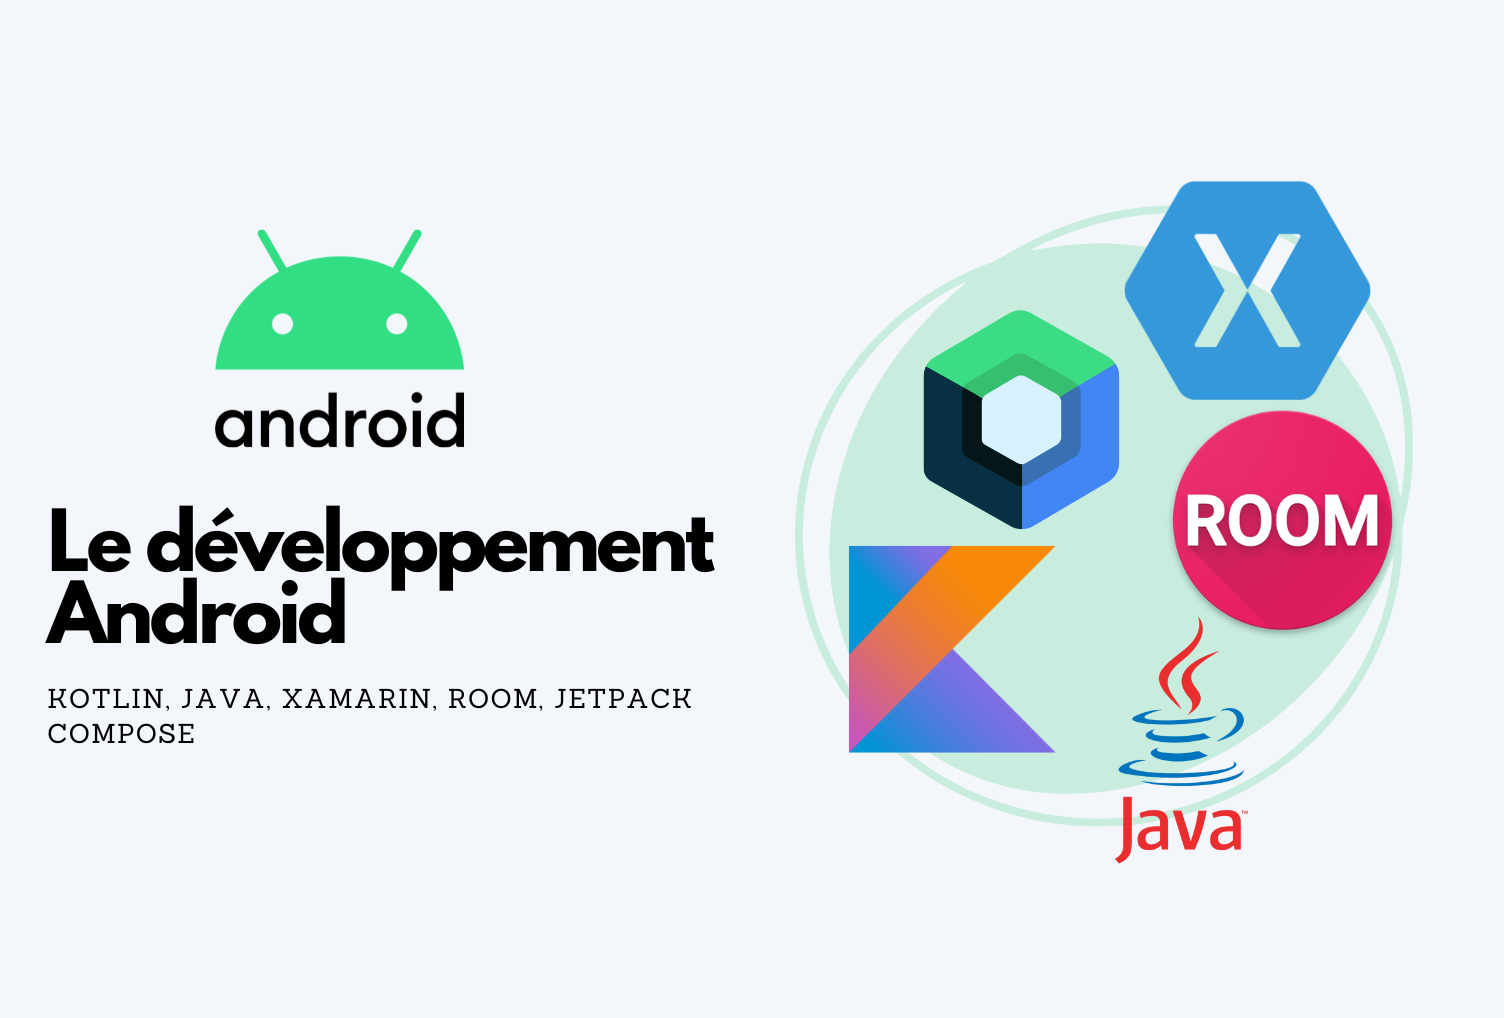
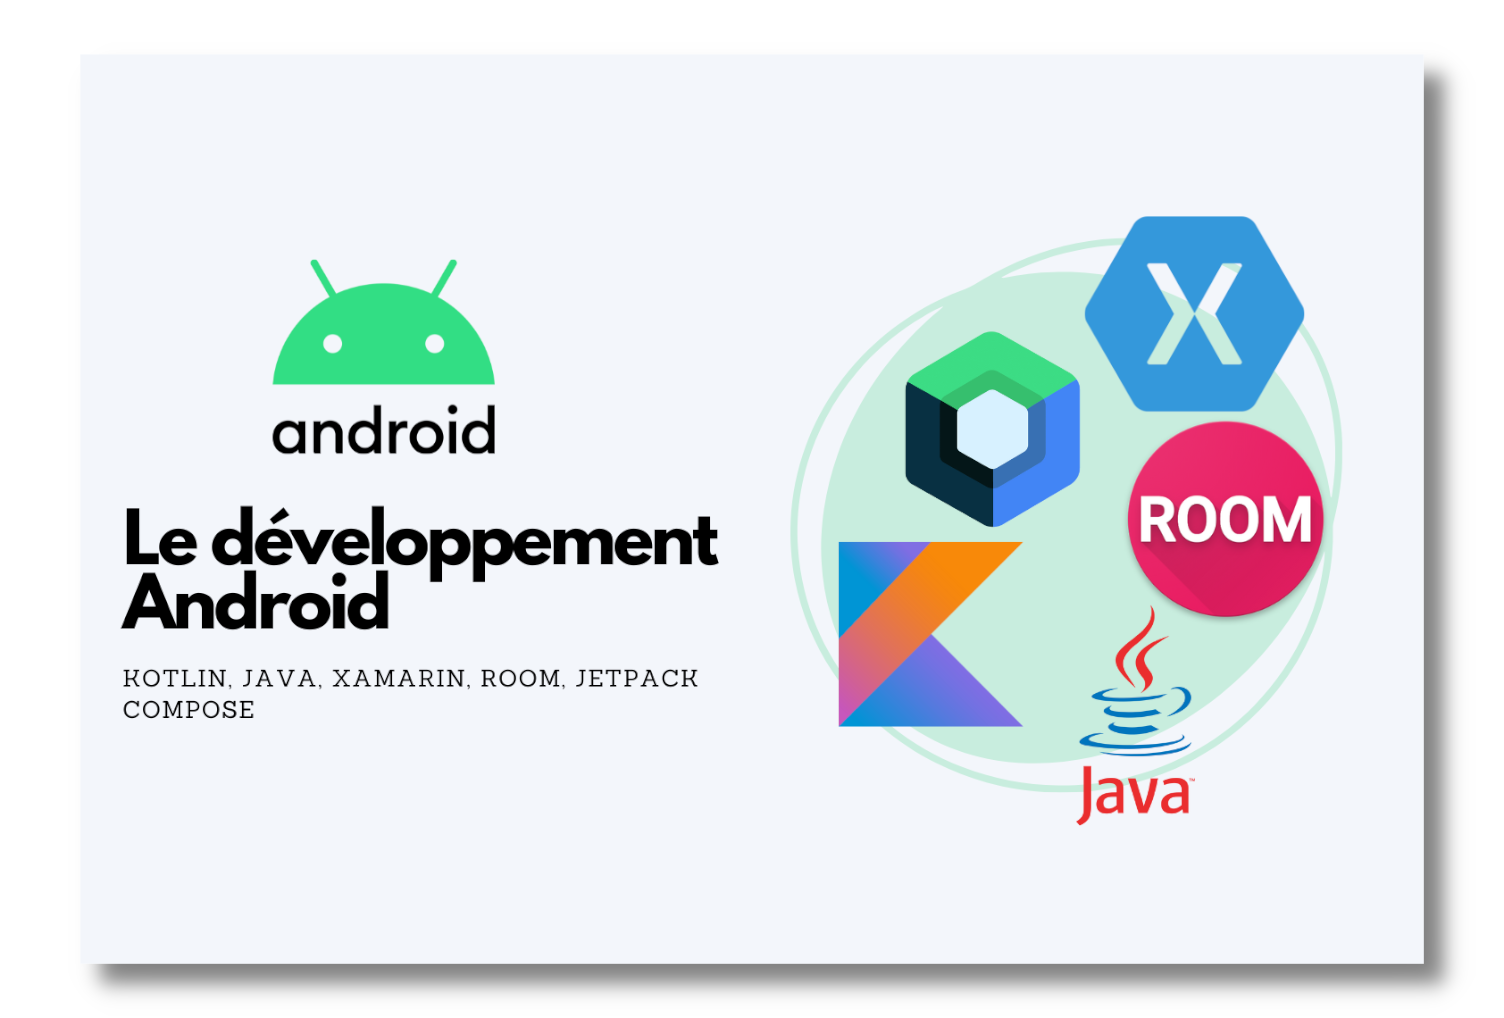
[DEV]- Fixing carrousel

Changed region(s): [[0.0312, 0.0609, 0.9688, 0.9745], [0.125, 0.2132, 0.3438, 0.4568]]

diff --git a/index.html b/index.html
@@ -79,7 +79,7 @@ https://www.tooplate.com/view/2115-marvel
                                 <div class="animated-info">
                                     <span class="animated-item">Tiago</span>
                                     <span class="animated-item">développeur</span>
-                                    <span class="animated-item">con</span>
+                                    <span class="animated-item">technophile</span>
                                 </div>
                         </h1>
 
@@ -120,16 +120,16 @@ https://www.tooplate.com/view/2115-marvel
 
                       <div class="owl-carousel owl-theme">
                         <div class="item">
-                          <div class="project-info">
-                            <a href = "html/project.html?file=article_ulysse">
-                              <img src="images/project/project_ulysse_canvas.png" class="img-fluid" alt="project image">
-                            </a>
-                          </div>
+                            <div class="project-info">
+                              <a href = "html/project.html?file=article_maquette">
+                                <img src="images/project/project_maquette_canva.png" class="img-fluid" alt="project image">
+                              </a>
+                            </div>
                         </div>
                         <div class="item">
                           <div class="project-info">
-                            <a href = "html/project.html?file=article_maquette">
-                              <img src="images/project/project_maquette_canva.png" class="img-fluid" alt="project image">
+                            <a href = "html/project.html?file=article_ulysse">
+                              <img src="images/project/project_ulysse_canvas.png" class="img-fluid" alt="project image">
                             </a>
                           </div>
                         </div>

diff --git a/css/owl.carousel.min.css b/css/owl.carousel.min.css
@@ -7,7 +7,6 @@
 .owl-carousel .owl-item {
     -webkit-tap-highlight-color: transparent;
     position: relative;
-    padding: 50px;
 }
 
 @media (max-width: 580px) {
@@ -69,7 +68,6 @@
 .owl-carousel .owl-item img {
     display: block;
     width: 100%;
-    box-shadow: 5px 10px 10px grey;
 }
 
 .owl-carousel .owl-dots.disabled,
